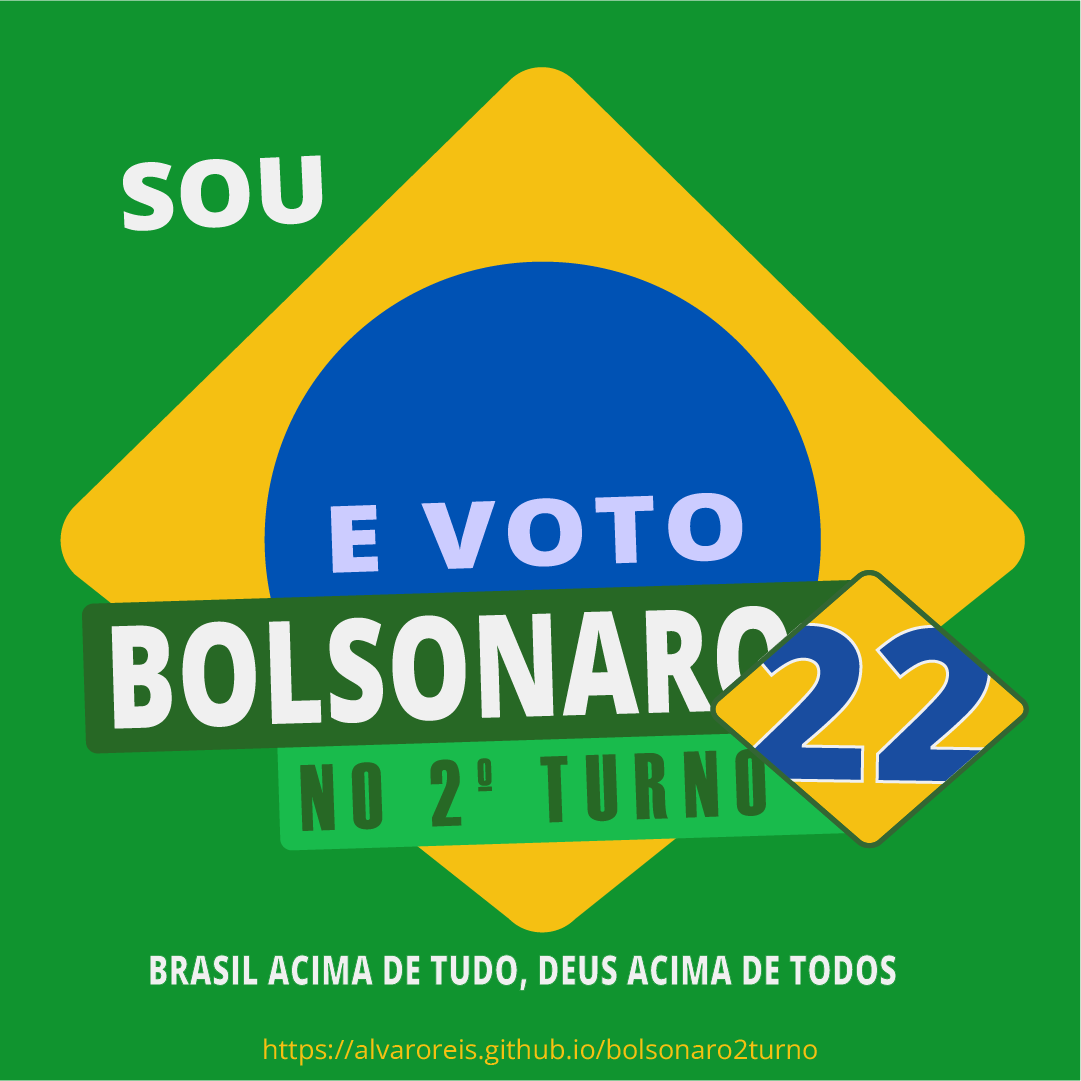
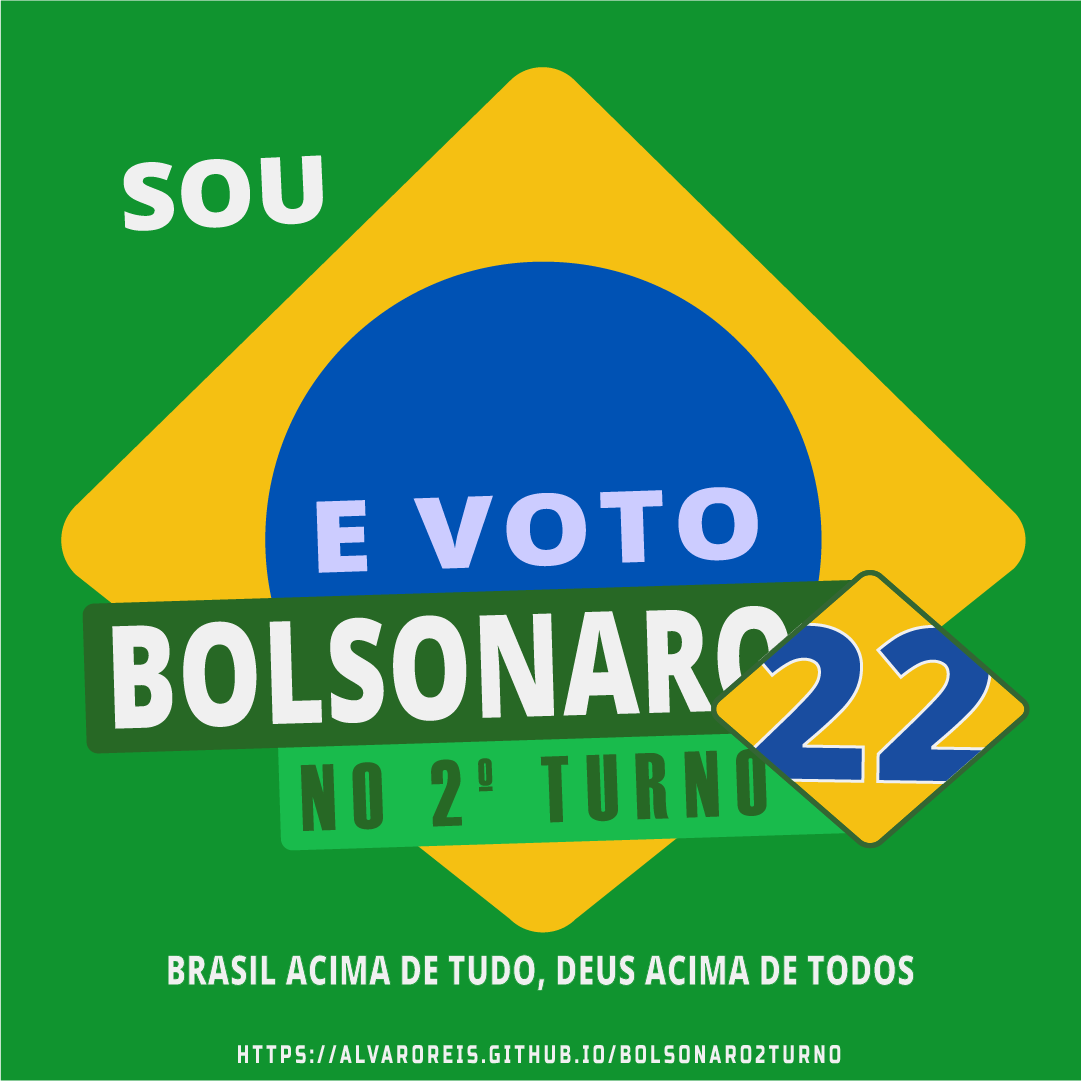
feat: update image

diff --git a/index.html b/index.html
@@ -144,6 +144,18 @@
     .container smartphone .nubank {
       height: 1.5rem;
     }
+
+    a.left {
+      float: left;
+    }
+
+    a.right {
+      float: right;
+    }
+
+    footer div {
+      width: 80%;
+    }
   </style>
   <script src="js/clipboardtext.js"></script>
 </head>
@@ -157,10 +169,15 @@
     <canvas width="1080" height="1080"></canvas>
 
     <footer>
-      <a href="https://github.com/alvaroreis/bolsonaro2turno" target="_blank">
-        <img src="img/github-logo.svg" />
-        <span>alvaroreis/bolsonaro2turno</span>
-      </a>
+      <div>
+        <a href="https://github.com/alvaroreis/bolsonaro2turno" class="left" target="_blank">
+          <img src="img/github-logo.svg" />
+          <span style="text-transform: uppercase;">alvaroreis/bolsonaro2turno</span>
+        </a>
+        <a href="https://github.com/alvaroreis" class="right" target="_blank">
+          <span style="text-transform: uppercase;">quem sou eu?</span>
+        </a>
+      </div>
     </footer>
 
 
@@ -389,7 +406,7 @@
 
         context.save();
 
-        context.translate(540, 348);
+        context.translate(540, 360);
         context.rotate((-2 * Math.PI) / 180);
 
         context.textBaseline = "middle";
@@ -398,17 +415,18 @@
           document.querySelector("input").value.trim()
         ).width;
 
-        context.fillStyle = "#1ABC4C";
+        // context.fillStyle = "#1da60e";
+        context.fillStyle = "#19bb4c";
         roundRect(
           context,
-          -width / 2 - 25,
-          -184 / 2,
-          width + 25 * 2,
-          184,
+          -width / 2 - 40,
+          -220 / 2,
+          width + 40 * 2,
+          210,
           21.66
         );
 
-        context.fillStyle = "white";
+        context.fillStyle = "#f0f0f0";
         context.fillText(
           document.querySelector("input").value.trim(),
           -width / 2,
